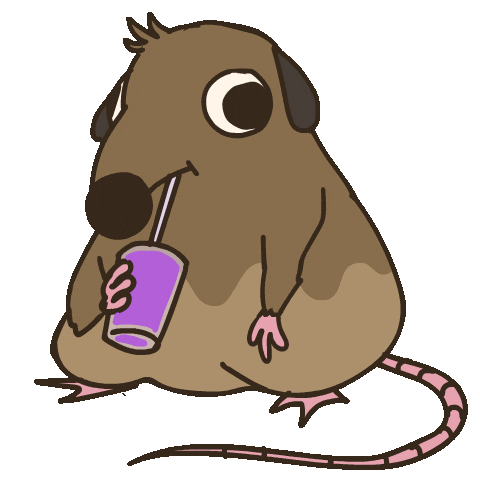
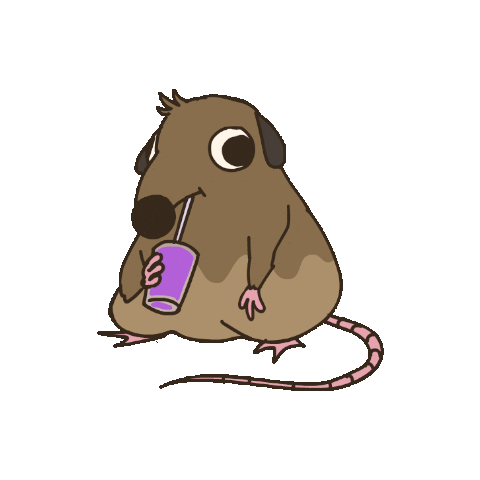
Support positioning images

diff --git a/ratdeck/build.rs b/ratdeck/build.rs
@@ -32,16 +32,19 @@ fn main() {
     // `memory.x` is changed.
     println!("cargo:rerun-if-changed=memory.x");
 
-    if let Err(err) = build_assets(out) {
-        panic!("asset build failed: {err}");
-    }
+    let slides = match build_slides(out) {
+        Ok(slides) => slides,
+        Err(err) => {
+            panic!("slides build failed: {err}");
+        }
+    };
 
-    if let Err(err) = build_slides(out) {
-        panic!("slides build failed: {err}");
+    if let Err(err) = build_assets(out, slides) {
+        panic!("asset build failed: {err}");
     }
 }
 
-fn build_assets(out_dir: &Path) -> io::Result<()> {
+fn build_assets(out_dir: &Path, slides: Vec<SlideDef>) -> io::Result<()> {
     let assets_dir = Path::new("assets");
     if !assets_dir.is_dir() {
         return Ok(());
@@ -66,6 +69,7 @@ fn build_assets(out_dir: &Path) -> io::Result<()> {
     let mut out_file = File::create(out_dir.join("assets.rs"))?;
     writeln!(out_file, "// @generated by build.rs")?;
 
+    let image_positions = image_positions(&slides);
     let mut mappings = Vec::new();
     for png_path in entries {
         let stem = png_path
@@ -73,7 +77,8 @@ fn build_assets(out_dir: &Path) -> io::Result<()> {
             .and_then(|s| s.to_str())
             .ok_or_else(|| io::Error::new(io::ErrorKind::Other, "invalid png filename"))?;
         let const_name = const_name(stem);
-        let (width, height) = target_dimensions();
+        let position = resolve_position(&image_positions, &png_path);
+        let (width, height) = target_dimensions(position, &png_path)?;
         let raw_path = out_dir.join(format!("{stem}.raw"));
 
         let filter = format!(
@@ -128,7 +133,7 @@ fn build_assets(out_dir: &Path) -> io::Result<()> {
     Ok(())
 }
 
-fn build_slides(out_dir: &Path) -> io::Result<()> {
+fn build_slides(out_dir: &Path) -> io::Result<Vec<SlideDef>> {
     let slides_path = Path::new("slides.md");
     println!("cargo:rerun-if-changed={}", slides_path.display());
     let input = fs::read_to_string(slides_path)?;
@@ -162,14 +167,15 @@ fn build_slides(out_dir: &Path) -> io::Result<()> {
     )?;
     writeln!(out_file, "    SLIDES.get_or_init(|| {{")?;
     writeln!(out_file, "        let slides: Vec<Slide> = alloc::vec![")?;
-    for slide in slides {
+    for slide in &slides {
         writeln!(out_file, "            {},", slide.to_rust())?;
     }
     writeln!(out_file, "        ];")?;
     writeln!(out_file, "        Box::new(slides)")?;
     writeln!(out_file, "    }}).as_slice()")?;
     writeln!(out_file, "}}")?;
-    Ok(())
+
+    Ok(slides)
 }
 
 #[derive(Debug)]
@@ -184,6 +190,7 @@ enum SlideDef {
     Image {
         title: String,
         image: String,
+        position: ImagePosition,
         markdown: String,
     },
 }
@@ -203,11 +210,13 @@ impl SlideDef {
             SlideDef::Image {
                 title,
                 image,
+                position,
                 markdown,
             } => format!(
-                "Slide::Image(ImageSlide {{ title: {}, image: {}, text: {} }})",
+                "Slide::Image(ImageSlide {{ title: {}, image: {}, position: {}, text: {} }})",
                 rust_string(title),
                 rust_string(image),
+                position.to_rust(),
                 markdown_to_rust(markdown)
             ),
         }
@@ -291,12 +300,14 @@ fn parse_slide(lines: &[&str]) -> Result<SlideDef, String> {
         return Ok(SlideDef::Title { title });
     };
 
-    if let Some((_, image)) = parse_image_syntax(first_line.trim())? {
+    if let Some((alt, image)) = parse_image_syntax(first_line.trim())? {
         validate_image_path(&image)?;
+        let position = ImagePosition::from_alt(&alt)?;
         let markdown = body[first_idx + 1..].join("\n");
         return Ok(SlideDef::Image {
             title,
             image,
+            position,
             markdown,
         });
     }
@@ -327,6 +338,33 @@ fn parse_image_syntax(line: &str) -> Result<Option<(String, String)>, String> {
     Ok(Some((alt.to_string(), path.to_string())))
 }
 
+#[derive(Debug, Clone, Copy, PartialEq, Eq)]
+enum ImagePosition {
+    Left,
+    Center,
+    Right,
+}
+
+impl ImagePosition {
+    fn from_alt(alt: &str) -> Result<Self, String> {
+        match alt.trim() {
+            "image:left" => Ok(Self::Left),
+            "image:center" => Ok(Self::Center),
+            "image:right" => Ok(Self::Right),
+            "" => Ok(Self::Center),
+            other => Err(format!("unsupported image position: {other}")),
+        }
+    }
+
+    fn to_rust(self) -> &'static str {
+        match self {
+            Self::Left => "ImagePosition::Left",
+            Self::Center => "ImagePosition::Center",
+            Self::Right => "ImagePosition::Right",
+        }
+    }
+}
+
 fn validate_image_path(value: &str) -> Result<(), String> {
     let assets_dir = Path::new("assets");
     let path = assets_dir.join(value);
@@ -340,17 +378,53 @@ fn validate_image_path(value: &str) -> Result<(), String> {
     ))
 }
 
-fn target_dimensions() -> (u32, u32) {
-    // Default to the display's configured size. Override via env vars if needed.
-    let width = env::var("RATDECK_IMG_W")
-        .ok()
-        .and_then(|v| v.parse::<u32>().ok())
-        .unwrap_or(160);
-    let height = env::var("RATDECK_IMG_H")
-        .ok()
-        .and_then(|v| v.parse::<u32>().ok())
-        .unwrap_or(214);
-    (width, height)
+fn target_dimensions(position: ImagePosition, png_path: &Path) -> io::Result<(u32, u32)> {
+    match position {
+        ImagePosition::Center => {
+            let (src_w, src_h) = source_dimensions(png_path)?;
+            if src_h == 0 {
+                return Err(io::Error::new(
+                    io::ErrorKind::Other,
+                    format!("invalid image height for {}", png_path.display()),
+                ));
+            }
+            let height = 240;
+            let width = ((src_w as u64 * height as u64) + (src_h as u64 / 2)) / src_h as u64;
+            Ok((width as u32, height))
+        }
+        ImagePosition::Left | ImagePosition::Right => Ok((160, 214)),
+    }
+}
+
+fn image_positions(slides: &[SlideDef]) -> Vec<(String, ImagePosition)> {
+    let mut out = Vec::new();
+    for slide in slides {
+        if let SlideDef::Image { image, position, .. } = slide {
+            out.push((image.clone(), *position));
+        }
+    }
+    out
+}
+
+fn resolve_position(positions: &[(String, ImagePosition)], png_path: &Path) -> ImagePosition {
+    let Some(file_name) = png_path.file_name().and_then(|s| s.to_str()) else {
+        return ImagePosition::Left;
+    };
+    let mut pos = None;
+    for (image, position) in positions {
+        if image == file_name {
+            pos = Some(*position);
+            if *position == ImagePosition::Center {
+                break;
+            }
+        }
+    }
+    pos.unwrap_or(ImagePosition::Left)
+}
+
+fn source_dimensions(path: &Path) -> io::Result<(u32, u32)> {
+    image::image_dimensions(path)
+        .map_err(|err| io::Error::new(io::ErrorKind::Other, format!("image read failed: {err}")))
 }
 
 fn const_name(stem: &str) -> String {

diff --git a/ratdeck/src/app.rs b/ratdeck/src/app.rs
@@ -17,7 +17,7 @@ use tui_big_text::{BigText, PixelSize};
 
 use crate::{
     chart,
-    slides::{ImageSlide, Slide, TextSlide, TitleSlide, SLIDES},
+    slides::{ImagePosition, ImageSlide, Slide, TextSlide, TitleSlide, SLIDES},
 };
 
 pub struct App {
@@ -148,6 +148,9 @@ impl App {
     }
 
     fn slide_with_image(&mut self, f: &mut Frame, slide: &ImageSlide) {
+        if slide.position == ImagePosition::Center {
+            return;
+        }
         let mut text = slide.text.clone();
         text.lines.insert(0, Line::default());
         f.render_widget(

diff --git a/ratdeck/src/slides.rs b/ratdeck/src/slides.rs
@@ -22,7 +22,15 @@ pub struct TextSlide {
 pub struct ImageSlide {
     pub title: &'static str,
     pub image: &'static str,
+    pub position: ImagePosition,
     pub text: &'static Text<'static>,
+}
+
+#[derive(Debug, Clone, Copy, PartialEq, Eq)]
+pub enum ImagePosition {
+    Left,
+    Center,
+    Right,
 }
 
 include!(concat!(env!("OUT_DIR"), "/slides.rs"));

diff --git a/ratdeck/slides.md b/ratdeck/slides.md
@@ -26,7 +26,7 @@ Let's talk about this.
 
 # init 0
 
-![](vt100.png)
+![image:left](vt100.png)
 
 Before modern computing, we had simple **terminals**.
 
@@ -36,7 +36,7 @@ And we learned to do a lot with very little.
 
 # Then...
 
-![](rat-cup.png)
+![image:left](rat-cup.png)
 
 They changed.
 
@@ -45,6 +45,12 @@ Like everything else.
 They evolved.
 
 Because we always wanted more.
+
+---
+
+# suzui-rs
+
+![image:center](suzui-rs.png)
 
 ---
 
